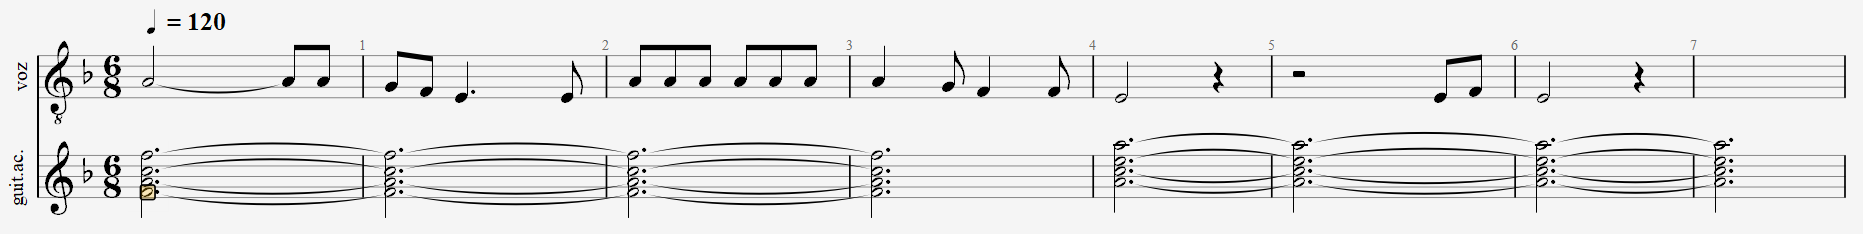
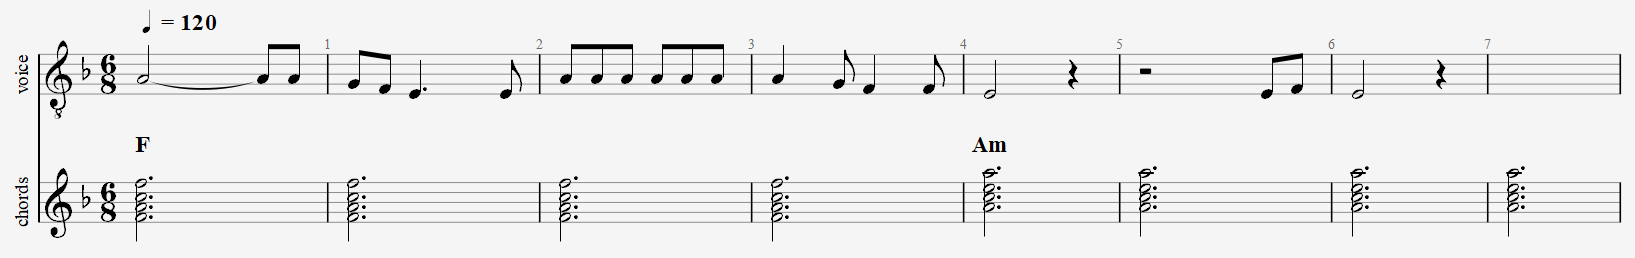
Update README
Minor copy edits and wording improvements for clarity

diff --git a/README.md b/README.md
@@ -6,11 +6,11 @@
 
 A basic songwriter AI, aimed at producing MIDI files with melody tracks and chord (harmony) tracks, intended to be used as a simple songwriting tool for musicians, producers, and (of course) songwriters.
 
-This AI is supposed to take MIDI files in their most basic structure, being a monophonic melody track and a chord track with no rhythmic variation, with chords being sustained all the way until the next one starts. For proper function of the AI, your training files will have to look something like this:
+This AI is supposed to take MIDI files in their most basic structure, being a monophonic melody track and a chord track with no rhythmic variation, with **each chord being repeated each bar** to ensure the chord context survives the tokenization process. For proper function of the AI, your training files will have to look something like this:
 
 ![Image showcasing the basic melody and chord track structure detailed above](assets/partiture_sample.png "Screenshot from Guitar Pro")
 
-This structure will make sure the AI learns the basic structure of songs (chords and melody), allowing it to train on the core aspects parts of your song dataset, after this, you can manually add more production (chord rhythmic variations, more instruments, bass, etc) to the generated files.
+This structure will make sure the AI learns the basic structure of songs (chords and melody), allowing it to train on the core aspects parts of your song dataset, after this, you can manually add more production (chord rhythmic variations, more instruments, bass, etc) to the generated files. But this structure allows the AI to learn on the fundamental aspects of each song.
 
 ### How does the AI Identify Tracks In My Dataset?
 
@@ -134,7 +134,7 @@ Now you can open any browser and go to 'http://localhost:42069', here you will s
 
 ![Screenshot of the Preprocess tab of the Gradio GUI](assets/preprocess_gui.png "Browser screenshot")
 
-The preprocessing tab prepares your MIDI files for optimal training performance.
+The pre-processing tab prepares your MIDI files for optimal training performance.
 
 ### Backup & Recovery
 
@@ -160,9 +160,9 @@ On the right we have the Process button and a status log for additional clarity.
 
 ![Screenshot of the MIDI Parser tab of the Gradio GUI](assets/midi_parser.png "Browser screenshot")
 
-Our AI cannot understand MIDI files because they're binary files, so this tab processes them into a JSON format which is easier to understand.
+Our AI cannot understand MIDI files because they're binary files, so this tab processes them into a JSON format which the AI can understand.
 
-On the bottom of the pagewe get the basic buttons to start the process and cancel it. When you finish parsing, you will see a log on screen like this one:
+On the bottom of the page we get the basic buttons to start the process and cancel it. When you finish parsing, you will see a log on screen like this one:
 
 ![Console screenshot of the MIDI Parser after processing the entire folder](assets/parser_console.png "Console screenshot")
 
@@ -180,7 +180,7 @@ This tab is very important because it performs transposition to improve model ge
 
 The system creates 12 versions of each song by transposing from -6 to +5 semitones, maintaining modal integrity (major stays major, minor stays minor).
 
-### Benefits
+### Why we're dping this
 
 **1. Scale-Invariant Learning**  
 The model learns intrinsic musical patterns independent of key, preventing bias toward keys overrepresented in your original dataset.
@@ -213,7 +213,7 @@ Single-epoch validation run to verify your pipeline integrity before committing 
 Deliberately memorizes a small batch. While overfitting is typically undesirable, successful memorization confirms your training pipeline functions correctly. Very useful for debugging and sanity checks.
 
 - **production:**
-High-end preset, it will make a long training process with all features maxxed out BUT IT WILL CONSUME AN UNGODLY AMOUNT OF VRAM, make sure you have +16GB of VRAM before using this preset.
+High-end preset, it will make a long training process with all features maxxed out BUT IT WILL CONSUME AN UNGODLY AMOUNT OF VRAM, make sure you have a GPU with +16GB of VRAM before using this preset.
 
 - **low_memory:**
 This preset exists solely to replace the 'default' and 'production' presets for low memory systems like laptops (~4GB VRAM). Keep in mind that this preset will use a shorter context window and will most likely truncate training data.
@@ -228,7 +228,7 @@ Which is a simple web-based database that the project uses to submit statistics 
 
 You can type "3" and "Enter" if you don't need it.
 
-Unless you selected 'quick_test' this will start a process that will take several hours to finish, for reference, my RTX 3060 took about 12 hours with the production preset and 3000 files.
+Unless you selected 'quick_test' this will start a process that will take several hours to finish, for reference, my RTX 3060 12GB took about 8 hours with the production preset and 2000 files.
 
 #### Pause and Resume During Training
 
@@ -268,7 +268,9 @@ Below it we get options for conditional generation:
 
 Here we can apply constraints to the generated files using a model, all settings are optional so you can use any combination of them and the model will be able to generate files following these guides.
 
-And at the bottom we get some output options, where we can define the number of generated files and max length. Right below these options we get the 'Generated Music', which will use the model to generate some files, this process should only take a few minutes depending on how many files you are generating.
+**NOTE: Be aware that these guidelines are learned during training, this means that they will only work correctly if all your dataset had the correct key and time signature metadata**. If you are using MIDI files without a specified key (which defaults to C Major) the model will not have learned what keys mean and will most likely generated faulty data when constraints are applied. 
+
+And at the bottom we get some output options, where we can define the number of generated files and max length. Right below these options we get the 'Generate Music', which will use the model to generate the files, this process should only take a few minutes depending on how many files you are generating, inference is much faster than training.
 
 If everything up to this point went well, you should have your generated MIDI files in the output path. You can import these files into any MIDI software (Reaper, Guitar Pro, Sybellius, Tux Guitar, Pro Tools, etc) and you will have your music. Enjoy!
 
